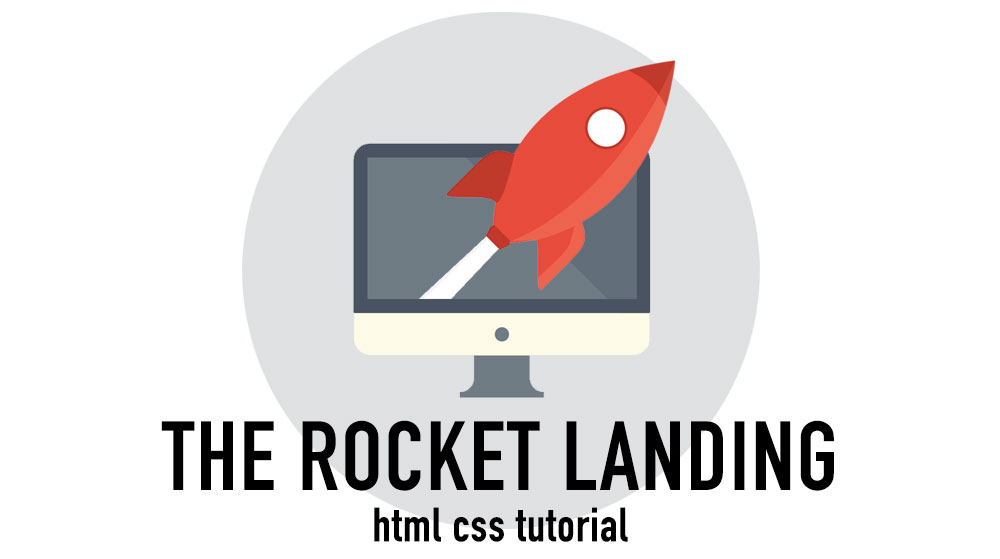
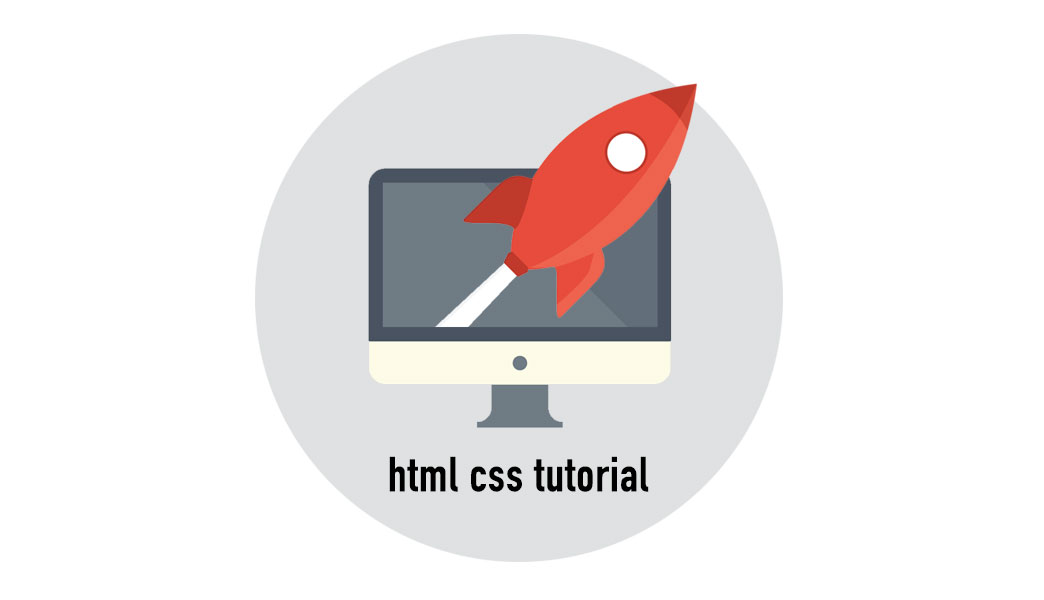
News thumbnails Blog + YouTube and labels

Changed region(s): [[0.155, 0.0, 0.837, 0.9732], [0.248, 0.1825, 0.31, 0.3953]]

diff --git a/posts/2014-10-20-meetup-git-github.md b/posts/2014-10-20-meetup-git-github.md
@@ -1,13 +1,13 @@
 ---
 layout: post
-title: "#Tips Débuter avec Git et Github"
+title: "Débuter avec Git et Github"
 author: sebastien
 labels:
   - tuto
   - video
   - meetup
 pushed: true
-thumbnail: thumbnail-debuter-git-github-video.jpg
+thumbnail: thumbnail-workshop-github.jpg
 description: "Les curieux que vous êtes avez sûrement entendu parler de Github, un réseau social un peu différent de Facebook où ça parle de code. Github est basé sur git, un utilitaire développé par le créateur de Linux, et qui joue un rôle central dans tout projet de développement : celui de système de gestion des versions. Maîtriser git, c'est adopter une bonne pratique de développement qui changera à jamais votre vision de l'Informatique."
 ---
 

diff --git a/posts/2015-01-16-introduction-hardware-arduino-api.md b/posts/2015-01-16-introduction-hardware-arduino-api.md
@@ -4,8 +4,9 @@ title: "Introduction hardware et arduino avec HappyTrucs"
 author: cedric
 labels:
   - meetup
+  - tuto
   - video
-thumbnail: thumbnail-introduction-hardware-arduino.jpg
+thumbnail: thumbnail-workshop-arduino.jpg
 description: La tête dans les nuages et les mains dans le cambouis. Telle est la devise d'Aurélien Fache, passionné par l'internet des objets et véritable inconditionnel des APIs. Dans cette vidéo de 35 minutes il vous présente quelques-unes de ses réalisations sur arduino, revient sur la notion d'API et réalise un rapide panorama des autres solutions de prototypage hardware. À vos ateliers !
 ---
 

diff --git a/posts/2015-01-23-api-webhook-debutant-tutoriel.md b/posts/2015-01-23-api-webhook-debutant-tutoriel.md
@@ -4,7 +4,9 @@ title: "Tout ce que vous avez toujours voulu savoir sur les APIs"
 author: cedric
 labels:
   - meetup
+  - tuto
   - video
+pushed: true
 thumbnail: thumbail-api-webhook-tutorial.jpg
 description: "Les APIs sont légions sur le web et offrent simplement et rapidement la possibilité de démultiplier la force de vos applications. De la définition de l'acronyme en passant par la notion de webhook et quelques exemples d'utilisations, Sebastien Saunier, CTO du Wagon, vous invite à découvrir les bases de ce nouvel enjeu stratégique pour votre projet."
 ---

diff --git a/posts/2015-03-11-workshop-commen-construire-une-API.md b/posts/2015-03-11-workshop-commen-construire-une-API.md
@@ -1,10 +1,12 @@
 ---
 layout: post
-title: "#WorkShop Comment bien construire l'API de son service ?"
+title: "Comment bien construire l'API de son service ?"
 author: cedric
 labels:
-  - video
   - meetup
+  - tuto
+  - video
+pushed: true
 thumbnail: thumbnail-workshop-comment-bien-construire-une-api.jpg
 description: "Les exemples d'APIs à utiliser pour créer votre startup ne manquent pas. Mais peut-être est-il venu le temps pour vous de créer votre propre API afin de faciliter l'intégration de votre produit ?"
 ---

diff --git a/posts/2014-10-31-implementation-google-analytics.md b/posts/2014-10-31-implementation-google-analytics.md
@@ -7,7 +7,7 @@ labels:
   - video
   - tuto
 pushed: true
-thumbnail: thumbnail-implementation-google-analytics.jpg
+thumbnail: thumbnail-workshop-googleanalytics.jpg
 description: "Aujourd’hui, les analytics sont au coeur de toutes les discussions et de toutes les stratégies. Avec Google Analytics, vous avez accès à un outil de mesure gratuit, fiable et performant. Dans cette vidéo, Bertrand Girard, Conversion Specialist, vous donne toutes les clés et best practices pour son implémentation sur votre site."
 ---
 

diff --git a/posts/2014-12-05-tester-votre-idee-sans-coder.md b/posts/2014-12-05-tester-votre-idee-sans-coder.md
@@ -3,10 +3,11 @@ layout: post
 title: "Le prototypage : de l'idée à votre premier MVP."
 author: cedric
 labels:
-  - video
   - meetup
+  - tuto
+  - video
 pushed: true
-thumbnail: thumbnail-meetup-mvp-prototypage.jpg
+thumbnail: thumbnail-workshop-mvp.jpg
 description: "Dans cette introduction au prototypage, Benjamin Ewenczyk vous propose de commencer à poser les briques de votre service en seulement quelques heures afin de délivrer une première expérience à vos utilisateurs."
 ---
 

diff --git a/posts/2015-03-08-workshop-12-factor-how-to-scale-your-application.md b/posts/2015-03-08-workshop-12-factor-how-to-scale-your-application.md
@@ -1,10 +1,11 @@
 ---
 layout: post
-title: "#WorkShop 12 factor - Comment scaler vos applications ?"
+title: "12 factor - Comment scaler vos applications ?"
 author: cedric
 labels:
-  - video
   - meetup
+  - tuto
+  - video
 thumbnail: thumbnail-workshop-12-factor.jpg
 description: "Yann Klis, co-fondateur et CEO Scalingo revient sur les 12 bonnes pratiques pour créer des applications qui pourront facilement tenir des montées en charge et en faciliter la maintenance."
 ---

diff --git a/posts/2014-12-23-tuto-bases-javascript.md b/posts/2014-12-23-tuto-bases-javascript.md
@@ -7,7 +7,7 @@ labels:
   - tuto
   - video
 pushed: true
-thumbnail: thumbnail-meetup-javascript.jpg
+thumbnail: thumbnail-workshop-javascript.jpg
 description: Gilles Manzato vous expose les bases de JavaScript avant de vous présenter la librairie jQuery et le principe des requêtes AJAX dans un tutoriel vidéo d'une heure. Des variables au callback, vous apprendrez quelques notions rapidement utilisables pour vos projets personnels du moment.
 ---
 

diff --git a/posts/2014-11-21-tuto-debuter-dataviz-d3js.md b/posts/2014-11-21-tuto-debuter-dataviz-d3js.md
@@ -7,7 +7,7 @@ labels:
   - tuto
   - video
 pushed: true
-thumbnail: thumbnail-initiation-dataviz-d3js.jpg
+thumbnail: thumbnail-workshop-dataviz.jpg
 description: Dataviz, ou l'art de représenter des grandes quantités de données de manière innovante et interactive. Donner du sens à la donnée, voilà le but de cette nouvelle discipline ! Découvrez d3.js une librairie JavaScript pour visualiser des données au sein d'interfaces web.
 ---
 

diff --git a/posts/2014-10-08-meetup-frontend-lewagon.md b/posts/2014-10-08-meetup-frontend-lewagon.md
@@ -3,7 +3,7 @@ layout: post
 title: Front-end & Design pour débutants - Retour sur le premier Meetup du Wagon
 author: miruna
 labels:
-  - meetup
+  - misc
 thumbnail: meetup-frontend-design.jpg
 description: "Mercredi dernier, Le Wagon a lancé sa série de meetup avec Front-end & Design pour débutants, un premier rendez-vous de 2h pour réaliser rapidement une landing page jolie et fonctionnelle. Une bien belle entrée en matière."
 ---

diff --git a/posts/2015-03-17-best-practices-email-marketing.md b/posts/2015-03-17-best-practices-email-marketing.md
@@ -3,8 +3,10 @@ layout: post
 title: "Les best practices de l'email marketing et transactionnel"
 author: cedric
 labels:
-  - video
   - meetup
+  - tuto
+  - video
+pushed: true
 thumbnail: workshop-emailing-marketing-transactionnel.jpg
 description: "Shubham Sharma, developer evangelist chez Mailjet, partage avec vous les best practices de l'email marketing et transactionnel afin d'optimiser la délivrabilité de vos campagnes."
 ---

diff --git a/posts/2015-01-08-debuter-big-data-lean-enterprise.md b/posts/2015-01-08-debuter-big-data-lean-enterprise.md
@@ -4,8 +4,10 @@ title: "Débuter avec le Big Data et le Lean Enterprise"
 author: cedric
 labels:
   - meetup
+  - tuto
   - video
-thumbnail: thumbnail-meetup-big-data.jpg
+pushed: true
+thumbnail: thumbnail-workshop-bigdata-leanstartup.jpg
 description: Johann Romefort nous a fait le plaisir d'animer un Meetup dans nos locaux afin de présenter les principes du Lean Enterprise et sa relation étroite avec le big data.
 ---
 
